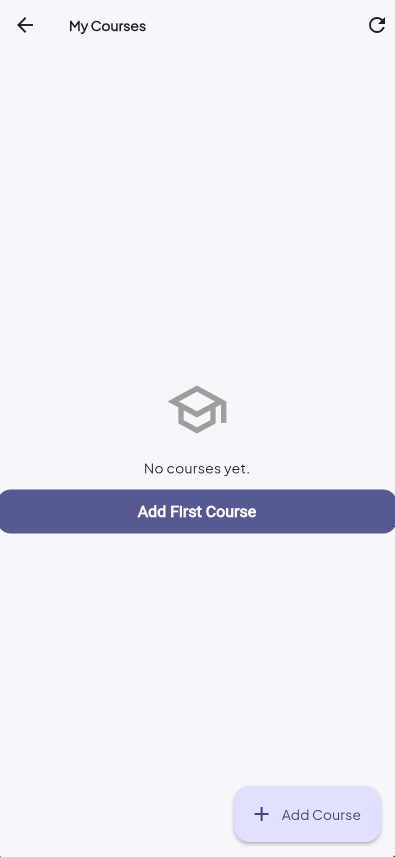
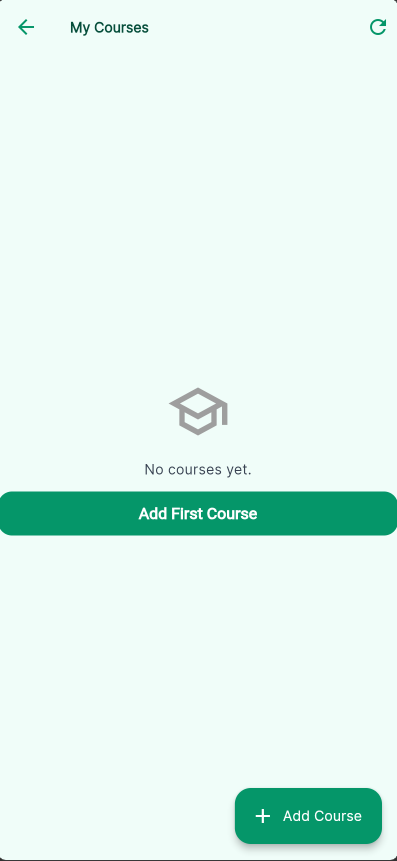
Added CRUD API Integration

diff --git a/lib/theme/app_theme.dart b/lib/theme/app_theme.dart
@@ -1,28 +1,48 @@
 import 'package:flutter/material.dart';
 import 'package:google_fonts/google_fonts.dart';
 
-/// Single source of truth for the app's look. Screens and widgets don't
-/// define their own colors/borders/text styles — they just use
-/// `Theme.of(context)` (or, for buttons/inputs, nothing at all) and pick
-/// this up automatically.
 class AppTheme {
   AppTheme._();
 
-  static const _seedColor = Color(0xFF6366F1); // indigo
-  static const scaffoldBackground = Color(0xFFF7F7FB);
+  static const _seedColor = Color(0xFF059669); // emerald green
+  static const _accentTeal = Color(0xFF0D9488); // teal accent
+  static const scaffoldBackground = Color(0xFFF0FDF9); // very light mint
 
   static ThemeData get light {
     final colorScheme = ColorScheme.fromSeed(
       seedColor: _seedColor,
       brightness: Brightness.light,
+    ).copyWith(
+      primary: _seedColor,
+      secondary: _accentTeal,
+      tertiary: const Color(0xFF6EE7B7), // light emerald
+      surface: Colors.white,
+      surfaceContainerHighest: const Color(0xFFD1FAE5), // mint surface
+      onPrimary: Colors.white,
+      onSecondary: Colors.white,
     );
 
-    final baseTextTheme = GoogleFonts.plusJakartaSansTextTheme();
+    final baseTextTheme = GoogleFonts.interTextTheme();
     final textTheme = baseTextTheme.copyWith(
-      headlineSmall: baseTextTheme.headlineSmall?.copyWith(fontWeight: FontWeight.w700),
-      titleLarge: baseTextTheme.titleLarge?.copyWith(fontWeight: FontWeight.w700),
-      titleMedium: baseTextTheme.titleMedium?.copyWith(fontWeight: FontWeight.w600),
-      bodyMedium: baseTextTheme.bodyMedium?.copyWith(height: 1.45),
+      headlineSmall: baseTextTheme.headlineSmall?.copyWith(
+        fontWeight: FontWeight.w700,
+        color: const Color(0xFF064E3B), // deep emerald
+      ),
+      titleLarge: baseTextTheme.titleLarge?.copyWith(
+        fontWeight: FontWeight.w700,
+        color: const Color(0xFF064E3B),
+      ),
+      titleMedium: baseTextTheme.titleMedium?.copyWith(
+        fontWeight: FontWeight.w600,
+        color: const Color(0xFF065F46),
+      ),
+      bodyMedium: baseTextTheme.bodyMedium?.copyWith(
+        height: 1.45,
+        color: const Color(0xFF374151),
+      ),
+      bodySmall: baseTextTheme.bodySmall?.copyWith(
+        color: const Color(0xFF6B7280),
+      ),
     );
 
     final radius = BorderRadius.circular(14);
@@ -32,29 +52,37 @@ class AppTheme {
       colorScheme: colorScheme,
       scaffoldBackgroundColor: scaffoldBackground,
       textTheme: textTheme,
+
+      // ── AppBar ──────────────────────────────────────────────────────────
       appBarTheme: AppBarTheme(
         backgroundColor: scaffoldBackground,
-        foregroundColor: colorScheme.onSurface,
+        foregroundColor: const Color(0xFF064E3B),
         elevation: 0,
         centerTitle: false,
-        titleTextStyle: textTheme.titleLarge?.copyWith(color: colorScheme.onSurface),
+        titleTextStyle: textTheme.titleLarge?.copyWith(
+          color: const Color(0xFF064E3B),
+        ),
+        iconTheme: const IconThemeData(color: Color(0xFF059669)),
       ),
+
+      // ── Input fields ─────────────────────────────────────────────────────
       inputDecorationTheme: InputDecorationTheme(
         filled: true,
         fillColor: Colors.white,
-        contentPadding: const EdgeInsets.symmetric(horizontal: 16, vertical: 14),
+        contentPadding:
+            const EdgeInsets.symmetric(horizontal: 16, vertical: 14),
         labelStyle: TextStyle(color: colorScheme.onSurfaceVariant),
         border: OutlineInputBorder(
           borderRadius: radius,
-          borderSide: BorderSide(color: colorScheme.outlineVariant),
+          borderSide: const BorderSide(color: Color(0xFFD1FAE5)),
         ),
         enabledBorder: OutlineInputBorder(
           borderRadius: radius,
-          borderSide: BorderSide(color: colorScheme.outlineVariant),
+          borderSide: const BorderSide(color: Color(0xFFA7F3D0)),
         ),
         focusedBorder: OutlineInputBorder(
           borderRadius: radius,
-          borderSide: BorderSide(color: colorScheme.primary, width: 1.6),
+          borderSide: const BorderSide(color: Color(0xFF059669), width: 1.6),
         ),
         errorBorder: OutlineInputBorder(
           borderRadius: radius,
@@ -65,29 +93,78 @@ class AppTheme {
           borderSide: BorderSide(color: colorScheme.error, width: 1.6),
         ),
       ),
+
+      // ── Elevated buttons ──────────────────────────────────────────────────
       elevatedButtonTheme: ElevatedButtonThemeData(
         style: ElevatedButton.styleFrom(
-          backgroundColor: colorScheme.primary,
-          foregroundColor: colorScheme.onPrimary,
-          disabledBackgroundColor: colorScheme.primary.withOpacity(0.35),
-          disabledForegroundColor: colorScheme.onPrimary.withOpacity(0.7),
+          backgroundColor: _seedColor,
+          foregroundColor: Colors.white,
+          disabledBackgroundColor: _seedColor.withOpacity(0.35),
+          disabledForegroundColor: Colors.white.withOpacity(0.7),
           minimumSize: const Size.fromHeight(52),
           elevation: 0,
           shape: RoundedRectangleBorder(borderRadius: radius),
-          textStyle: const TextStyle(fontWeight: FontWeight.w600, fontSize: 16),
+          textStyle: const TextStyle(
+            fontWeight: FontWeight.w600,
+            fontSize: 16,
+          ),
         ),
       ),
+
+      // ── Text buttons ──────────────────────────────────────────────────────
+      textButtonTheme: TextButtonThemeData(
+        style: TextButton.styleFrom(
+          foregroundColor: _seedColor,
+          textStyle: const TextStyle(fontWeight: FontWeight.w600),
+        ),
+      ),
+
+      // ── FAB ───────────────────────────────────────────────────────────────
+      floatingActionButtonTheme: FloatingActionButtonThemeData(
+        backgroundColor: _seedColor,
+        foregroundColor: Colors.white,
+        shape: RoundedRectangleBorder(borderRadius: BorderRadius.circular(16)),
+      ),
+
+      // ── Cards ─────────────────────────────────────────────────────────────
       cardTheme: CardThemeData(
         color: Colors.white,
         elevation: 0,
         margin: const EdgeInsets.symmetric(vertical: 6),
         shape: RoundedRectangleBorder(
           borderRadius: BorderRadius.circular(16),
-          side: BorderSide(color: colorScheme.outlineVariant.withOpacity(0.6)),
+          side: const BorderSide(color: Color(0xFFD1FAE5)),
         ),
       ),
+
+      // ── Checkbox ──────────────────────────────────────────────────────────
       checkboxTheme: CheckboxThemeData(
+        fillColor: WidgetStateProperty.resolveWith((states) {
+          if (states.contains(WidgetState.selected)) return _seedColor;
+          return null;
+        }),
         shape: RoundedRectangleBorder(borderRadius: BorderRadius.circular(6)),
+      ),
+
+      // ── Chip ──────────────────────────────────────────────────────────────
+      chipTheme: ChipThemeData(
+        backgroundColor: const Color(0xFFD1FAE5),
+        labelStyle: const TextStyle(color: Color(0xFF065F46)),
+        shape: RoundedRectangleBorder(borderRadius: BorderRadius.circular(8)),
+      ),
+
+      // ── Divider ───────────────────────────────────────────────────────────
+      dividerTheme: const DividerThemeData(
+        color: Color(0xFFD1FAE5),
+        thickness: 1,
+      ),
+
+      // ── SnackBar ──────────────────────────────────────────────────────────
+      snackBarTheme: SnackBarThemeData(
+        backgroundColor: const Color(0xFF064E3B),
+        contentTextStyle: const TextStyle(color: Colors.white),
+        shape: RoundedRectangleBorder(borderRadius: BorderRadius.circular(12)),
+        behavior: SnackBarBehavior.floating,
       ),
     );
   }

diff --git a/README.md b/README.md
@@ -1,155 +1,11 @@
-# Student Auth App – Course API Integration
+Student Info:
 
-This is an extension of my Flutter authentication app. In this part, I integrated the JSONPlaceholder REST API to add full CRUD functionality for managing courses.
-
----
-
-## Branch
-
-**`feature/course-api-integration`**
-
----
-
-## Student Info:
-
-Name: Muhammad Ahsan
-Roll No: SE-221099
-Class: SE-8B
-
-## API Used
-
-**JSONPlaceholder** – https://jsonplaceholder.typicode.com
-
-I used JSONPlaceholder because it's a free, ready-to-use fake API that lets you practice real HTTP requests without needing a backend. It supports GET, POST, PUT, and DELETE out of the box which made it perfect for this assignment.
-
-### Documentation I followed
-
-https://jsonplaceholder.typicode.com/guide
-
-I went through the guide to understand how each endpoint behaves before writing any code, especially to understand that POST always returns id 101 and that data isn't actually saved server-side.
-
-### Endpoints used
-
-| What it does     | Method | Endpoint      |
-| ---------------- | ------ | ------------- |
-| Load all courses | GET    | `/posts`      |
-| Load one course  | GET    | `/posts/{id}` |
-| Add a course     | POST   | `/posts`      |
-| Update a course  | PUT    | `/posts/{id}` |
-| Delete a course  | DELETE | `/posts/{id}` |
-
----
-
-## What I built
-
-### Authentication (from previous submission)
-
-- Login and register screens
-- Email and password validation
-- Remember Me using shared preferences
-- Dashboard screen after login
-
-### Course CRUD (added in this branch)
-
-- **Read** – the course list loads automatically when you open the screen. There's a loading spinner while it fetches and an error message with a retry button if something goes wrong.
-- **Create** – tapping Add Course opens a form. On submit it sends a POST request and the new course shows up at the top of the list.
-- **Update** – tapping Edit on any course opens the same form but with the existing data already filled in. On save it sends a PUT request and updates the list.
-- **Delete** – each course has a delete button. A confirmation dialog appears before anything is removed, and the item disappears from the list after a successful DELETE request.
-
-### How I structured the code
-
-I kept the API logic completely separate from the UI. All HTTP calls go through `CourseApiService` and the state (loading, success, error) is managed in `CourseProvider` using the Provider package. The screens just listen to the provider and react accordingly.
-
----
-
-## Folder structure
-
-```
-lib/
-├── controllers/
-│   └── auth_controller.dart
-├── models/
-│   ├── course_model.dart         ← added
-│   ├── subject.dart
-│   └── user.dart
-├── providers/
-│   └── course_provider.dart      ← added
-├── screens/
-│   ├── course_list_screen.dart   ← added
-│   ├── course_form_screen.dart   ← added
-│   ├── course_detail_screen.dart ← added
-│   ├── dashboard/
-│   ├── detail/
-│   ├── login/
-│   └── register/
-├── services/
-│   └── course_api_service.dart   ← added
-├── theme/
-├── validators/
-├── widgets/
-│   ├── course_card.dart          ← added
-│   ├── custom_button.dart
-│   └── custom_text_field.dart
-└── main.dart
-```
-
----
-
-## Packages added to pubspec.yaml
-
-```yaml
-http: ^1.2.1
-provider: ^6.1.2
-```
-
----
-
-## Screenshots
-
-### Course List
-
-All courses fetched from the API displayed as a scrollable list.
+Name: Muhammad Hamza
+Roll No: SE-221114
+Class: 8B
 
 ![Course List](screenshots/courselist.png)
 
----
-
-### Adding a New Course
-
-The form screen for creating a course with title and description fields.
-
 ![Add Course](screenshots/newcourse.png)
 
----
-
-### After Course is Created
-
-The new course appears at the top of the list after the POST request succeeds.
-
-![Course Created](screenshots/coursecreation.png)
-
----
-
-### Course Detail
-
-Tapping a course row opens the detail screen showing the full title and description.
-
 ![Course Detail](screenshots/checkcourse.png)
-
----
-
-## How to run
-
-```bash
-git clone <your-repo-url>
-cd student_auth_app
-git checkout feature/course-api-integration
-flutter pub get
-flutter run
-```
-
----
-
-## A few things worth noting
-
-Since JSONPlaceholder is a fake API, nothing is actually saved on the server. Every POST returns id 101 and refreshing the page reloads the original dummy data. This is expected — the point was to practice making real HTTP requests and handling the responses correctly, which the app does.